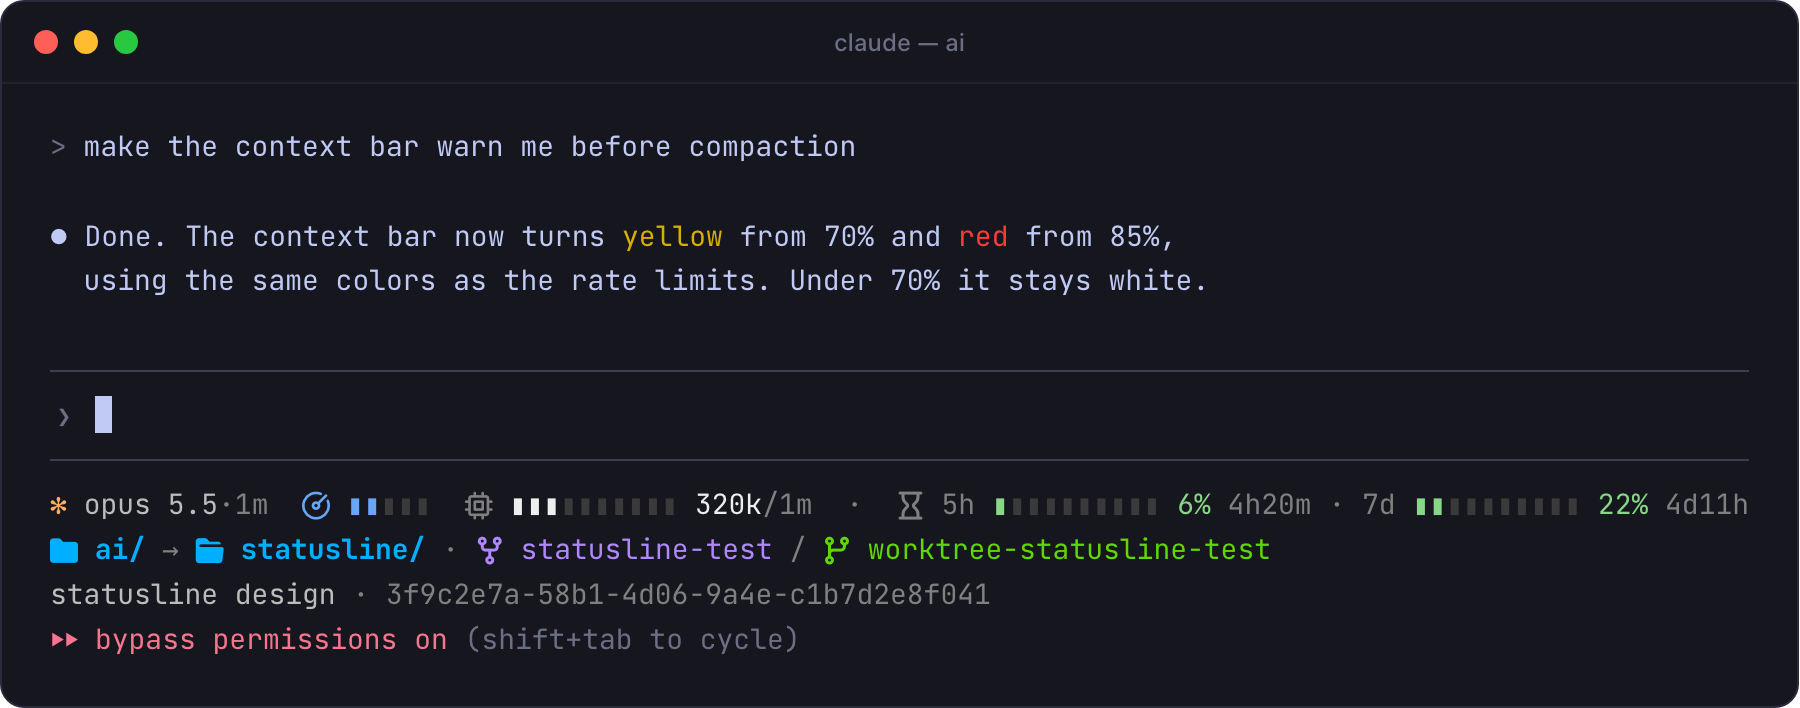
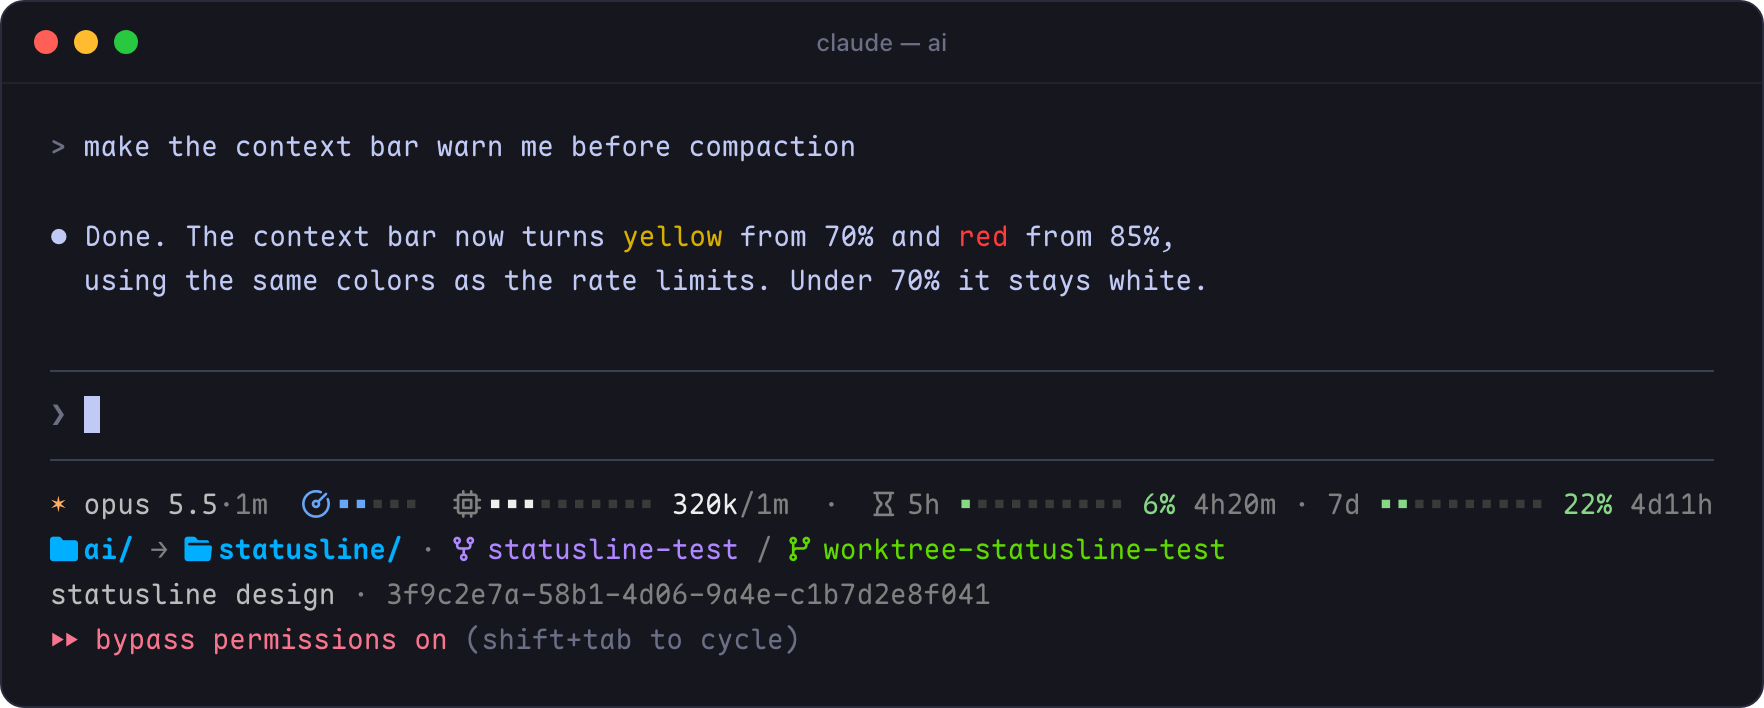
Use glyphs that Maple Mono NF actually has
▮, ⇡ ⇣ and ✻ aren't in Maple Mono NF, so terminals filled them in from
whatever fallback font each machine had and the bars looked different
everywhere. Swap them for ones the font ships:

- bar segments ▮ → ▪
- git ahead/behind ⇡ ⇣ → ↑ ↓
- model mark ✻ → ✶

Screenshots re-rendered with Maple Mono NF so they match the terminal.

diff --git a/statusline/README.md b/statusline/README.md
@@ -23,7 +23,7 @@ A three-line [Claude Code](https://code.claude.com) statusline. Every color mean
 - **Session folder** (closed folder icon): where the session started. Inside a git repo it's shown relative to the repo root. Long paths are shortened only when they don't fit.
 - **Agent folder** (open folder icon), after `→`, only when the agent is somewhere else: relative inside the project or worktree, a full `~` path outside it.
 - **Worktree** (purple), only inside a git worktree, then `/` and the branch.
-- **Git branch** in p10k-style notation: `⇡` ahead, `⇣` behind, `+` staged, `!` modified, `?` untracked, `~` conflicts.
+- **Git branch** in p10k-style notation: `↑` ahead, `↓` behind, `+` staged, `!` modified, `?` untracked, `~` conflicts.
   - Green when clean, yellow with changes, red on conflicts. It always follows the agent.
 
 ```text
